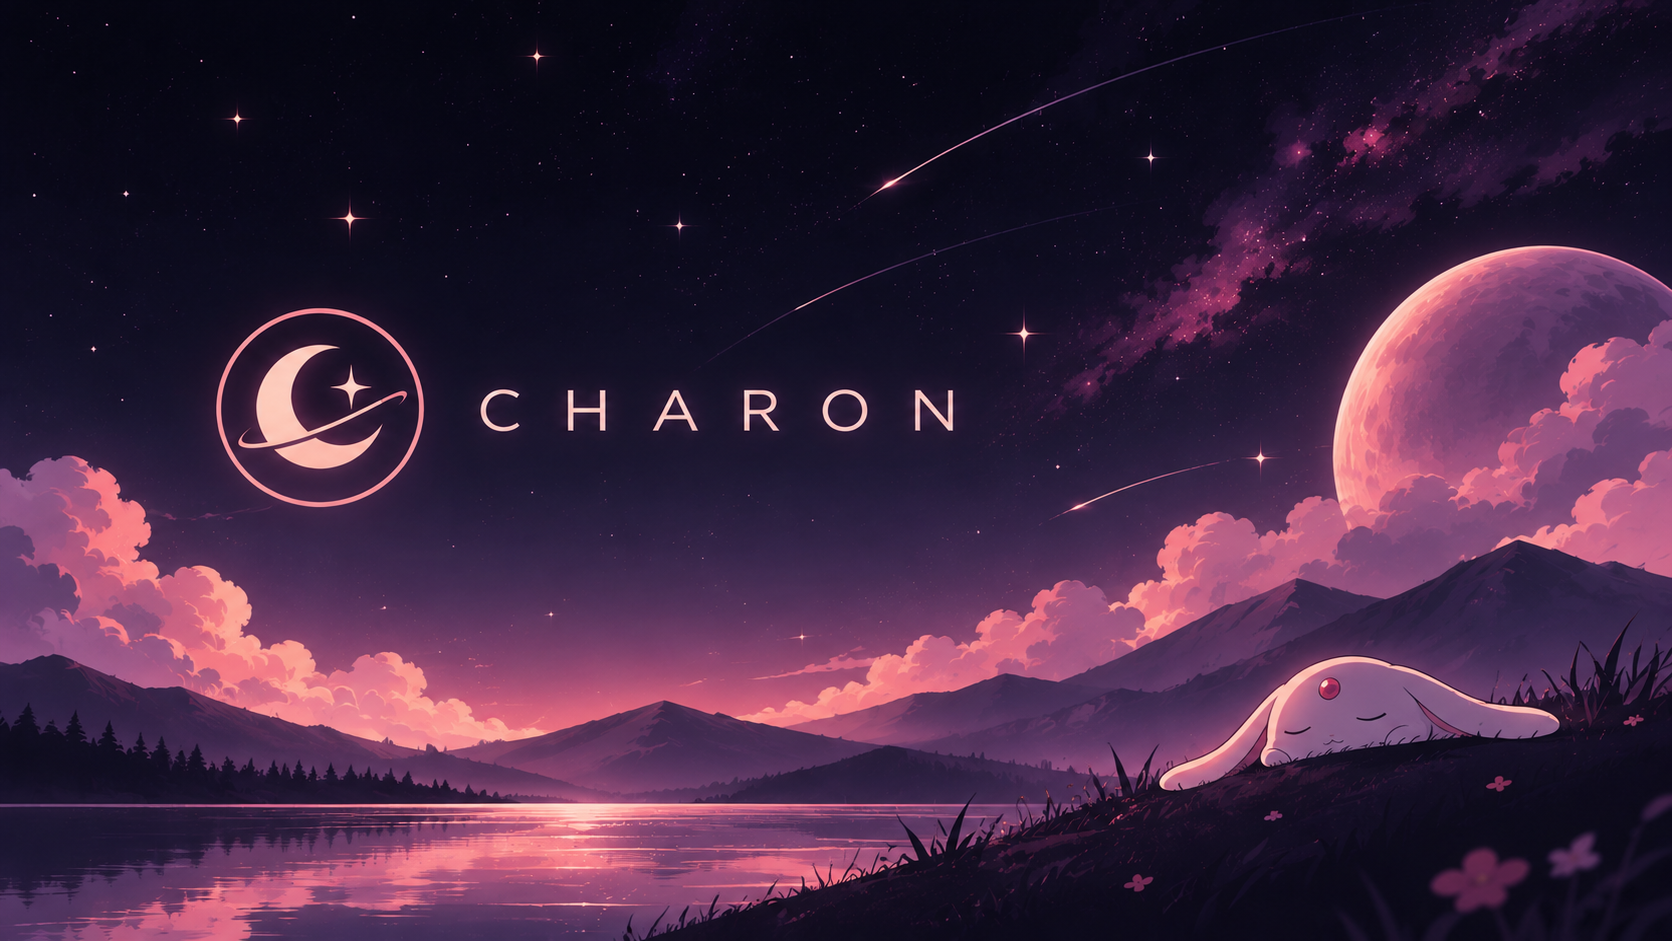
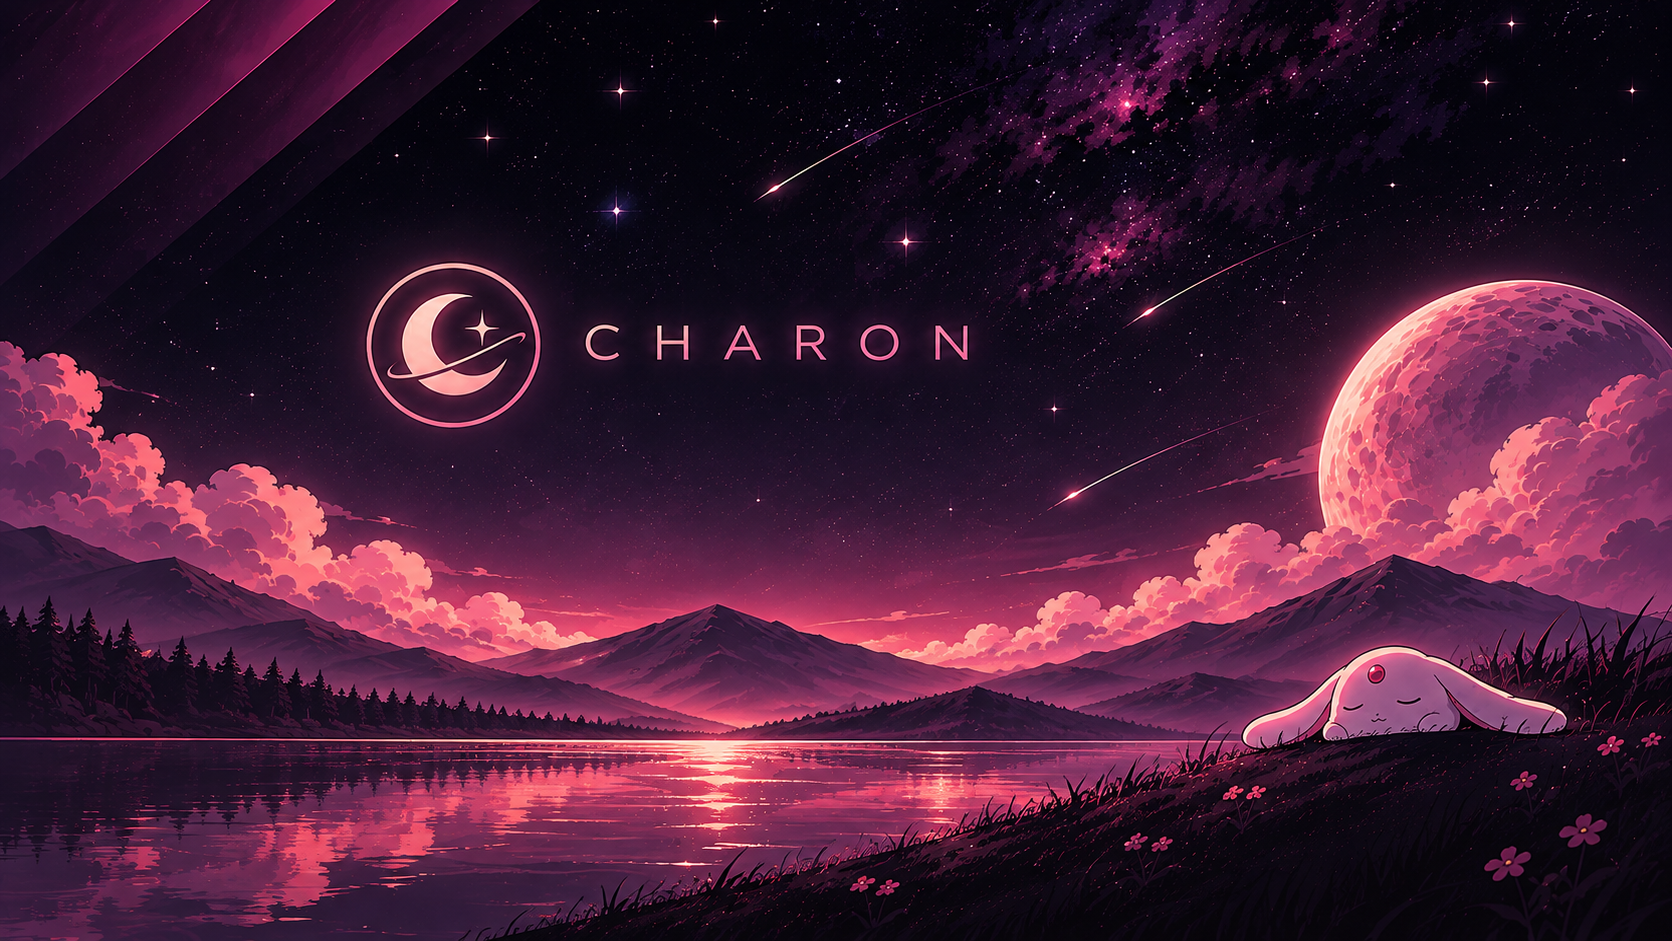
added test system to change colors, and save to persistant memory, defaults soon

diff --git a/apps/shell/qml/Main.qml b/apps/shell/qml/Main.qml
@@ -1,5 +1,6 @@
 import QtQuick
 import QtQuick.Controls
+import org.charon.shell
 
 ApplicationWindow {
     id: root
@@ -9,14 +10,164 @@ ApplicationWindow {
     height: 650
     title: "CHARON"
 
-    color: "#101014"
+    property int pendingAccentR: 244
+    property int pendingAccentB: 158
+    property int pendingAccentG: 140
+    property int pendingBGR: 37
+    property int pendingBGB: 19
+    property int pendingBGG: 41
+    property color pendingAccentColor: Qt.rgba(pendingAccentR / 255, pendingAccentG / 255, pendingAccentB / 255, 1)
+    property color pendingBGColor: Qt.rgba(pendingBGR / 255, pendingBGG / 255, pendingBGB / 255, 1)
+
+
+
+    color: Config.backgroundColor
 
     Text {
         anchors.centerIn: parent
 
-        text: "ODE"
-        color: "#EAE8F0"
+        text: "CHARON"
+        color: Config.accentColor
         font.pixelSize: 48
         font.weight: Font.Medium
     }
+
+    //test color settings
+    Row {
+        topPadding: 30
+        leftPadding: 30
+
+        spacing: 30
+
+        //accent color
+        Column {
+            id: accentSettings
+            width: 300
+            spacing: 10
+
+            Text {
+                text: "Accent Red: " + pendingAccentR
+                color: Config.accentColor
+            }
+
+            Slider {
+                width: 300
+
+                from: 0
+                to: 255
+                value: pendingAccentR
+
+                onValueChanged: pendingAccentR = Math.round(value)
+            }
+
+            Text {
+                text: "Accent Blue: " + pendingAccentB
+                color: Config.accentColor
+            }
+
+            Slider {
+                width: 300
+
+                from: 0
+                to: 255
+                value: pendingAccentB
+
+                onValueChanged: pendingAccentB = Math.round(value)
+            }
+
+            Text {
+                text: "Accent Green: " + pendingAccentG
+                color: Config.accentColor
+            }
+
+            Slider {
+                width: 300
+
+                from: 0
+                to: 255
+                value: pendingAccentG
+
+                onValueChanged: pendingAccentG = Math.round(value)
+            }
+
+            Button {
+                text: "apply"
+
+                onClicked: Config.accentColor = pendingAccentColor
+            }
+
+            Rectangle {
+                width: 100
+                height: 100
+                color: pendingAccentColor
+                radius: 12
+            }
+        }
+
+        //background color
+        Column {
+            id: backgroundSettings
+            width: 300
+            spacing: 10
+
+            Text {
+                text: "Background Red: " + pendingBGR
+                color: Config.accentColor
+            }
+
+            Slider {
+                width: 300
+
+                from: 0
+                to: 255
+                value: pendingBGR
+
+                onValueChanged: pendingBGR = Math.round(value)
+            }
+
+            Text {
+                text: "Background Blue: " + pendingBGB
+                color: Config.accentColor
+            }
+
+            Slider {
+                width: 300
+
+                from: 0
+                to: 255
+                value: pendingBGB
+
+                onValueChanged: pendingBGB = Math.round(value)
+            }
+
+            Text {
+                text: "Background Green: " + pendingBGG
+                color: Config.accentColor
+            }
+
+            Slider {
+                width: 300
+
+                from: 0
+                to: 255
+                value: pendingBGG
+
+                onValueChanged: pendingBGG = Math.round(value)
+            }
+
+            Button {
+                text: "Apply"
+
+                onClicked: Config.backgroundColor = pendingBGColor
+            }
+
+            Rectangle {
+                width: 100
+                height: 100
+                color: pendingBGColor
+                radius: 12
+            }
+        }
+    }
+
 }

diff --git a/apps/shell/qml/Config.qml b/apps/shell/qml/Config.qml
@@ -1,0 +1,31 @@
+
+pragma Singleton
+
+import QtQuick
+import QtCore
+
+QtObject {
+    //defaults
+    property color defaultAccentColor: "#F48C9E"
+    property color defaultBackgroundColor: "#251329"
+
+    //Public configuration properties
+    property alias accentColor: stored.accentColor
+    property alias backgroundColor: stored.backgroundColor
+
+    //persistant storage
+    property var stored: Settings {
+        id: stored
+
+        category: "Appearance"
+
+        property color accentColor: "#F48C9E"
+        property color backgroundColor: "#251329"
+    }
+
+    //Restoring defaults
+    function restoreDefaults() {
+        stored.accentColor = defaultAccentColor
+        stored.backgroundColor = defaultAccentColor
+    }
+}

diff --git a/apps/shell/build.rs b/apps/shell/build.rs
@@ -1,9 +1,10 @@
-use cxx_qt_build::{CxxQtBuilder, QmlModule};
+use cxx_qt_build::{CxxQtBuilder, QmlFile, QmlModule};
 
 fn main() {
     CxxQtBuilder::new_qml_module(
-        QmlModule::new("org.ode.shell")
-            .qml_file("qml/Main.qml"),
+        QmlModule::new("org.charon.shell")
+            .qml_file("qml/Main.qml")
+            .qml_file(QmlFile::from("qml/Config.qml").singleton(true)),
     )
     .build();
 }

diff --git a/apps/shell/src/main.rs b/apps/shell/src/main.rs
@@ -8,7 +8,7 @@ fn main() {
 
     if let Some(engine) = engine.as_mut() {
         engine.load(&QUrl::from(
-            "qrc:/qt/qml/org/ode/shell/qml/Main.qml",
+            "qrc:/qt/qml/org/charon/shell/qml/Main.qml",
         ));
     }
 
